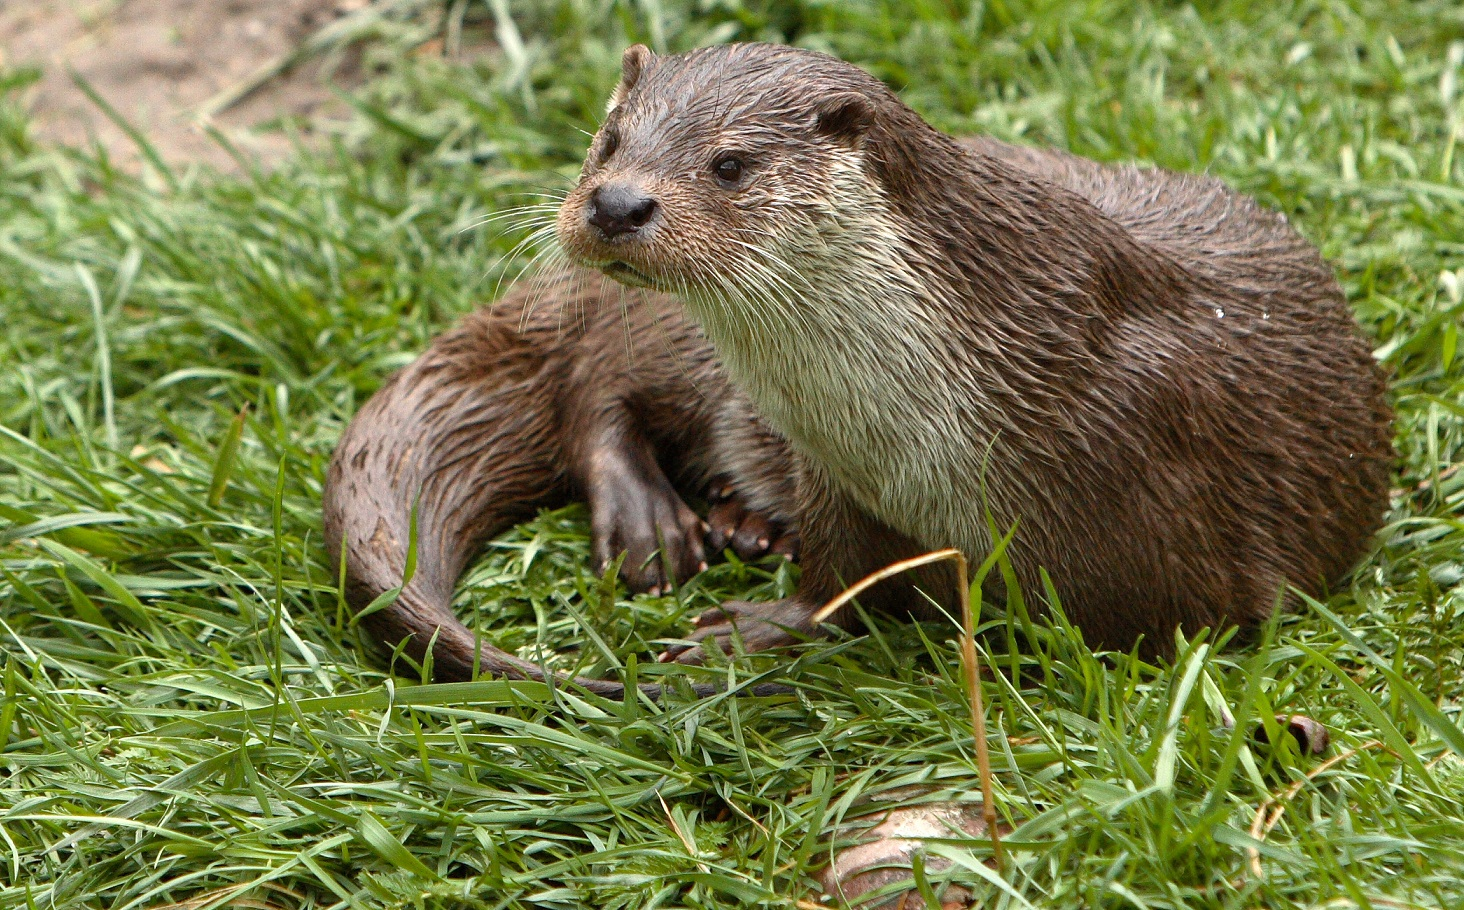
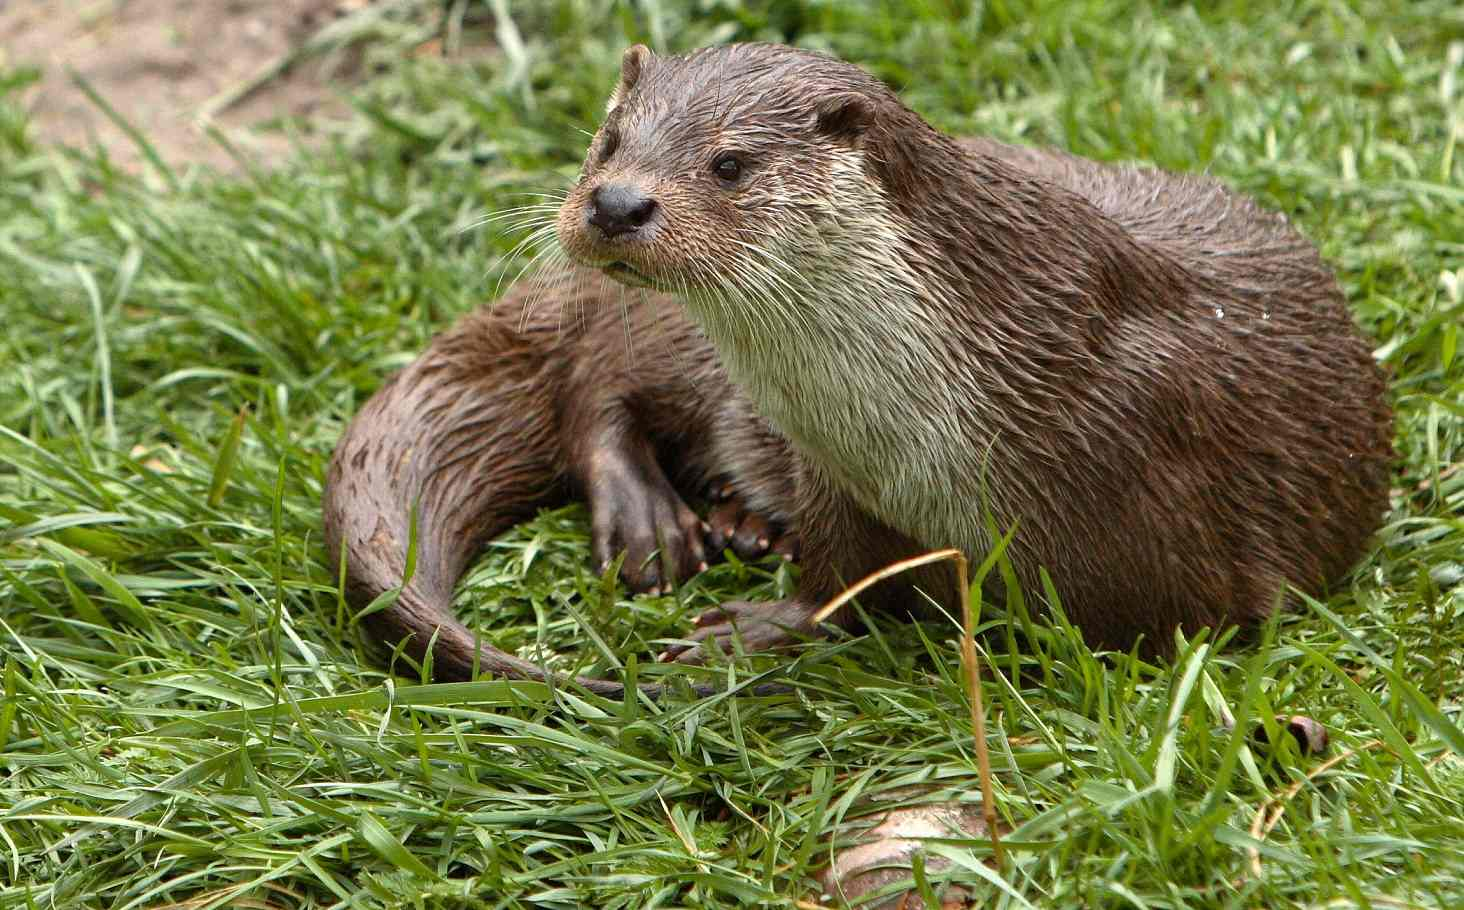
reducing pictures weight
with the "save for web" gimp's extension, the pictures are now waaaaay
lighter.

diff --git a/movies.html b/movies.html
@@ -57,7 +57,7 @@
 				    		<div class="modal-header">
 						        <button type="button" class="close" data-dismiss="modal">x</button>
 						        <h3 class="modal-title">Inscrivez vous en 30 secondes</h3>
-						        <img src="pictures/hourglass.png" alt="hourglass-logo">
+						        <img src="pictures/hourglass.jpg" alt="hourglass-logo">
 						        <p>S'inscrire n'est pas obligatoire mais vous nous aideriez beaucoup à estimer le nombre de personnes présentes
 						        et donc votre bon accueil.</p>
 				    		</div>
@@ -139,7 +139,7 @@
 							<h4>Le lundi 5 août</h4>
 							<!--first movie-->
 							<div class="col-xs-offset-1 col-xs-10 col-sm-offset-1 col-sm-5">
-								<img src="pictures/concert.png" alt="poster-concert" class="poster-prog-img hidden-xs">
+								<img src="pictures/concert.jpg" alt="poster-concert" class="poster-prog-img hidden-xs">
 								<h5>Le Concert - 18h</h5>
 								<div class="btn-group"> 
 									<a data-toggle="modal" href="#movie-1" class="btn btn-primary">Casting et synopsis</a>
@@ -149,7 +149,7 @@
 							    				<div class="modal-header">
 							        				<button type="button" class="close" data-dismiss="modal">x</button>
 							        				<h3 class="modal-title">Le Concert</h3>
-							        				<img src="pictures/ticket.png" alt="ticket-picture" class="ticket-logo">
+							        				<img src="pictures/ticket.jpg" alt="ticket-picture" class="ticket-logo">
 							        				<p>Sortie en 2009</p>
 												   	<p><strong>Réalisation:</strong><br>Radu Mihaileanu</p>
 												   	<p><strong>Acteurs et actrices :</strong><br>Aleksei Guskov, Mélanie Laurent, Dimitry Nazarov, François Berléand, 
@@ -166,7 +166,7 @@
 							</div>
 							<!--second movie-->
 							<div class="col-xs-offset-1 col-xs-10 col-sm-offset-0 col-sm-4">
-								<img src="pictures/polisse.png" alt="poster-polisse" class="poster-prog-img hidden-xs">
+								<img src="pictures/polisse.jpg" alt="poster-polisse" class="poster-prog-img hidden-xs">
 								<h5>Polisse - 21h</h5>
 								<div class="btn-group"> 
 									<a data-toggle="modal" href="#movie-2" class="btn btn-primary">Casting et synopsis</a>
@@ -176,7 +176,7 @@
 							    				<div class="modal-header">
 							        				<button type="button" class="close" data-dismiss="modal">x</button>
 							        				<h3 class="modal-title">Polisse</h3>
-							        				<img src="pictures/ticket.png" alt="ticket-picture" class="ticket-logo">
+							        				<img src="pictures/ticket.jpg" alt="ticket-picture" class="ticket-logo">
 							        				<p>Sortie en 2011</p>
 												   	<p><strong>Réalisation:</strong><br>Maïwenn</p>
 												   	<p><strong>Acteurs et actrices :</strong><br>Acteurs et actrices :<br>Karin Viard, JoeyStarr, Marina Foïs, Nicolas Duvauchelle, Maïwenn, Karole Rocher, Emmanuelle Bercot, Frédéric Pierrot</p>
@@ -198,7 +198,7 @@
 							<h4>Le mardi 6 août</h4>
 							<!--first movie-->
 							<div class="col-xs-offset-1 col-xs-10 col-sm-offset-1 col-sm-5">
-								<img src="pictures/teteFriche.png" alt="teteFriche-concert" class="poster-prog-img hidden-xs">
+								<img src="pictures/teteFriche.jpg" alt="teteFriche-concert" class="poster-prog-img hidden-xs">
 								<h5>La tête en friche - 18h</h5>
 								<div class="btn-group"> 
 									<a data-toggle="modal" href="#movie-3" class="btn btn-primary">Casting et synopsis</a>
@@ -208,7 +208,7 @@
 							    				<div class="modal-header">
 							        				<button type="button" class="close" data-dismiss="modal">x</button>
 							        				<h3 class="modal-title">La tête en friche</h3>
-							        				<img src="pictures/ticket.png" alt="ticket-picture" class="ticket-logo">
+							        				<img src="pictures/ticket.jpg" alt="ticket-picture" class="ticket-logo">
 							        				<p>Sortie en 2009</p>
 												   	<p><strong>Réalisation:</strong><br>Radu Mihaileanu</p>
 												   	<p><strong>Acteurs et actrices :</strong><br>Aleksei Guskov, Mélanie Laurent, Dimitry Nazarov, François Berléand, 
@@ -225,7 +225,7 @@
 							</div>
 							<!--second movie-->
 							<div class="col-xs-offset-1 col-xs-10 col-sm-offset-0 col-sm-4">
-								<img src="pictures/affranchis.png" alt="poster-affranchis" class="poster-prog-img hidden-xs">
+								<img src="pictures/affranchis.jpg" alt="poster-affranchis" class="poster-prog-img hidden-xs">
 								<h5>Les Affranchis - 21h</h5>
 								<div class="btn-group"> 
 									<a data-toggle="modal" href="#movie-4" class="btn btn-primary">Casting et synopsis</a>
@@ -235,7 +235,7 @@
 							    				<div class="modal-header">
 							        				<button type="button" class="close" data-dismiss="modal">x</button>
 							        				<h3 class="modal-title">Les Affranchis</h3>
-							        				<img src="pictures/ticket.png" alt="ticket-picture" class="ticket-logo">
+							        				<img src="pictures/ticket.jpg" alt="ticket-picture" class="ticket-logo">
 							        				<p>Sortie en 2011</p>
 												   	<p><strong>Réalisation:</strong><br>Maïwenn</p>
 												   	<p><strong>Acteurs et actrices :</strong><br>Acteurs et actrices :<br>Karin Viard, JoeyStarr, Marina Foïs, Nicolas Duvauchelle, Maïwenn, Karole Rocher, Emmanuelle Bercot, Frédéric Pierrot</p>
@@ -257,7 +257,7 @@
 							<h4>Le mercredi 7 août</h4>
 							<!--first movie-->
 							<div class="col-xs-offset-1 col-xs-10 col-sm-offset-1 col-sm-5">
-								<img src="pictures/coeurHomme.png" alt="poster-coeurHomme" class="poster-prog-img hidden-xs">
+								<img src="pictures/coeurHomme.jpg" alt="poster-coeurHomme" class="poster-prog-img hidden-xs">
 								<h5>Le Coeur des Hommes - 18h</h5>
 								<div class="btn-group"> 
 									<a data-toggle="modal" href="#movie-5" class="btn btn-primary">Casting et synopsis</a>
@@ -267,7 +267,7 @@
 							    				<div class="modal-header">
 							        				<button type="button" class="close" data-dismiss="modal">x</button>
 							        				<h3 class="modal-title">Le Coeur des Hommes</h3>
-							        				<img src="pictures/ticket.png" alt="ticket-picture" class="ticket-logo">
+							        				<img src="pictures/ticket.jpg" alt="ticket-picture" class="ticket-logo">
 							        				<p>Sortie en 2009</p>
 												   	<p><strong>Réalisation:</strong><br>Radu Mihaileanu</p>
 												   	<p><strong>Acteurs et actrices :</strong><br>Aleksei Guskov, Mélanie Laurent, Dimitry Nazarov, François Berléand, 
@@ -284,7 +284,7 @@
 							</div>
 							<!--second movie-->
 							<div class="col-xs-offset-1 col-xs-10 col-sm-offset-0 col-sm-4">
-								<img src="pictures/persepolis.png" alt="poster-persepolis" class="poster-prog-img hidden-xs">
+								<img src="pictures/persepolis.jpg" alt="poster-persepolis" class="poster-prog-img hidden-xs">
 								<h5>Persepolis - 21h</h5>
 								<div class="btn-group"> 
 									<a data-toggle="modal" href="#movie-6" class="btn btn-primary">Casting et synopsis</a>
@@ -294,7 +294,7 @@
 							    				<div class="modal-header">
 							        				<button type="button" class="close" data-dismiss="modal">x</button>
 							        				<h3 class="modal-title">Persepolis</h3>
-							        				<img src="pictures/ticket.png" alt="ticket-picture" class="ticket-logo">
+							        				<img src="pictures/ticket.jpg" alt="ticket-picture" class="ticket-logo">
 							        				<p>Sortie en 2011</p>
 												   	<p><strong>Réalisation:</strong><br>Maïwenn</p>
 												   	<p><strong>Acteurs et actrices :</strong><br>Acteurs et actrices :<br>Karin Viard, JoeyStarr, Marina Foïs, Nicolas Duvauchelle, Maïwenn, Karole Rocher, Emmanuelle Bercot, Frédéric Pierrot</p>
@@ -316,7 +316,7 @@
 							<h4>Le jeudi 8 août</h4>
 							<!--first movie-->
 							<div class="col-xs-offset-1 col-xs-10 col-sm-offset-1 col-sm-5">
-								<img src="pictures/guerreDeclaree.png" alt="poster-guerreDeclaree" class="poster-prog-img hidden-xs">
+								<img src="pictures/guerreDeclaree.jpg" alt="poster-guerreDeclaree" class="poster-prog-img hidden-xs">
 								<h5>La guerre est déclarée - 18h</h5>
 								<div class="btn-group"> 
 									<a data-toggle="modal" href="#movie-7" class="btn btn-primary">Casting et synopsis</a>
@@ -326,7 +326,7 @@
 							    				<div class="modal-header">
 							        				<button type="button" class="close" data-dismiss="modal">x</button>
 							        				<h3 class="modal-title">La guerre est déclarée</h3>
-							        				<img src="pictures/ticket.png" alt="ticket-picture" class="ticket-logo">
+							        				<img src="pictures/ticket.jpg" alt="ticket-picture" class="ticket-logo">
 							        				<p>Sortie en 2009</p>
 												   	<p><strong>Réalisation:</strong><br>Radu Mihaileanu</p>
 												   	<p><strong>Acteurs et actrices :</strong><br>Aleksei Guskov, Mélanie Laurent, Dimitry Nazarov, François Berléand, 
@@ -343,7 +343,7 @@
 							</div>
 							<!--second movie-->
 							<div class="col-xs-offset-1 col-xs-10 col-sm-offset-0 col-sm-4">
-								<img src="pictures/granTorino.png" alt="poster-granTorino" class="poster-prog-img hidden-xs">
+								<img src="pictures/granTorino.jpg" alt="poster-granTorino" class="poster-prog-img hidden-xs">
 								<h5>Gran Torino - 21h</h5>
 								<div class="btn-group"> 
 									<a data-toggle="modal" href="#movie-8" class="btn btn-primary">Casting et synopsis</a>
@@ -353,7 +353,7 @@
 							    				<div class="modal-header">
 							        				<button type="button" class="close" data-dismiss="modal">x</button>
 							        				<h3 class="modal-title">Gran Torino</h3>
-							        				<img src="pictures/ticket.png" alt="ticket-picture" class="ticket-logo">
+							        				<img src="pictures/ticket.jpg" alt="ticket-picture" class="ticket-logo">
 							        				<p>Sortie en 2011</p>
 												   	<p><strong>Réalisation:</strong><br>Maïwenn</p>
 												   	<p><strong>Acteurs et actrices :</strong><br>Acteurs et actrices :<br>Karin Viard, JoeyStarr, Marina Foïs, Nicolas Duvauchelle, Maïwenn, Karole Rocher, Emmanuelle Bercot, Frédéric Pierrot</p>

diff --git a/index.html b/index.html
@@ -47,22 +47,22 @@
 					<h3>Venez découvrir le Festival</h3>
 					<div class="row columns">
 						<div class="col-md-offset-2 col-md-2 col-xs-12 column">
-							<img src="pictures/parc.png" alt="parc-picture" class="img-circle">
+							<img src="pictures/parc.jpg" alt="parc-picture" class="img-circle">
 							<h4>Nature</h4>
 							<p>Le parc de Procé offre un écrin de verdure unique qui sublime les films et rafraichit ses visiteurs</p>
 						</div>
 						<div class="col-md-2 col-xs-12 column">
-							<img src="pictures/projector.png" alt="projector-picture" class="img-circle">
+							<img src="pictures/projector.jpg" alt="projector-picture" class="img-circle">
 							<h4>Cinéma</h4>
 							<p>Découvrez ou redécouvrez de grands films d'auteurs, classique du cinéma ou non</p>
 						</div>
 						<div class="col-md-2 col-xs-12 column">
-							<img src="pictures/food.png" alt="food-picture" class="img-circle">
+							<img src="pictures/food.jpg" alt="food-picture" class="img-circle">
 							<h4>Gastronomie</h4>
 							<p>Venez déguster les plats écologiques et responsables proposés sur place par Green Tree Food</p>
 						</div>
 						<div class="col-md-2 col-xs-12 column">
-							<img src="pictures/note.png" alt="note-picture" class="img-circle">
+							<img src="pictures/note.jpg" alt="note-picture" class="img-circle">
 							<h4>Débat</h4>
 							<p>Vous avez aimé le film ? Pas du tout ? Parlez en avec votre voisin !</p>
 						</div>
@@ -75,17 +75,17 @@
 				<!-- Three pictures grid appears on md and larger only-->
 				<div class="col-md-12 four-views-section text-center hidden-sm hidden-xs">
 					<div>
-						<a href="#"><img src="pictures/polisse.png" class="picture-poster" alt="Polisse-poster"></a>
+						<a href="#"><img src="pictures/polisse.jpg" class="picture-poster" alt="Polisse-poster"></a>
 						<h4>Polisse</h4>
 						<p class="poster-description">Film dramatique français écrit et réalisé par Maïwenn, sorti en 2011</p>
 					</div>
 					<div>
 						<h4>Les Affranchis</h4>
 						<p class="poster-description"> Film de gangsters américain réalisé par Martin Scorsese, sorti en 1990</p>
-						<a href="#"><img src="pictures/affranchis.png" class="picture-poster" alt="affranchis-poster"></a>
+						<a href="#"><img src="pictures/affranchis.jpg" class="picture-poster" alt="affranchis-poster"></a>
 					</div>
 					<div>
-						<a href="#"><img src="pictures/granTorino.png" class="picture-poster" alt="granTorino-poster"></a>
+						<a href="#"><img src="pictures/granTorino.jpg" class="picture-poster" alt="granTorino-poster"></a>
 						<h4>Gran Torino</h4>
 						<p class="poster-description">Film américain réalisé par Clint Eastwood et sorti en 2008</p>
 					</div>
@@ -96,15 +96,15 @@
 					  	<!-- Wrapper for slides -->
 					  	<div class="carousel-inner">
 						    <div class="item active">
-						      <a href="#"><img src="pictures/polisse.png" alt="Polisse-poster" class="carousel-picture"></a>
+						      <a href="#"><img src="pictures/polisse.jpg" alt="Polisse-poster" class="carousel-picture"></a>
 						    </div>
 
 						    <div class="item">
-						      <a href="#"><img src="pictures/affranchis.png" alt="affranchis-poster" class="carousel-picture"></a>
+						      <a href="#"><img src="pictures/affranchis.jpg" alt="affranchis-poster" class="carousel-picture"></a>
 						    </div>
 
 						    <div class="item">
-						      <a href="#"><img src="pictures/granTorino.png" alt="granTorino-poster" class="carousel-picture"></a>
+						      <a href="#"><img src="pictures/granTorino.jpg" alt="granTorino-poster" class="carousel-picture"></a>
 						    </div>
 					  	</div>
 					  	<!-- Left and right controls -->
@@ -126,25 +126,25 @@
 					<h4>Les dernières nouvelles de l'organisation et de la programmation !</h4>
 					<div class="row">
 						<div class="col-xs-12 col-sm-6 col-md-3 text-center">
-							<a href="#"><img src="pictures/remplissage.png" alt="loutre"></a>
+							<a href="#"><img src="pictures/remplissage.jpg" alt="loutre"></a>
 							<a href="#"><h5>Un sous titre qui en dit long</h5></a>
 							<p>Lorem ipsum dolor sit amet, consectetur adipiscing elit. Donec imperdiet,
 							sapien quis laoreet suscipit, sapien augue molestie velit, ut feugiat est metus in diam. Cras.</p>
 						</div>
 						<div class="col-xs-12 col-sm-6 col-md-3 text-center">
-							<a href="#"><img src="pictures/remplissage2.png" alt="loutre"></a>
+							<a href="#"><img src="pictures/remplissage2.jpg" alt="loutre"></a>
 							<a href="#"><h5>Un sous titre qui en dit long</h5></a>
 							<p>Lorem ipsum dolor sit amet, consectetur adipiscing elit. Donec imperdiet,
 							sapien quis laoreet suscipit, sapien augue molestie velit, ut feugiat est metus in diam. Cras.</p>
 						</div>
 						<div class="col-xs-12 col-sm-6 col-md-3 text-center">
-							<a href="#"><img src="pictures/remplissage3.png" alt="loutre"></a>
+							<a href="#"><img src="pictures/remplissage3.jpg" alt="loutre"></a>
 							<a href="#"><h5>Un sous titre qui en dit long</h5></a>
 							<p>Lorem ipsum dolor sit amet, consectetur adipiscing elit. Donec imperdiet,
 							sapien quis laoreet suscipit, sapien augue molestie velit, ut feugiat est metus in diam. Cras.</p>
 						</div>
 						<div class="col-xs-12 col-sm-6 col-md-3 text-center">
-							<a href="#"><img src="pictures/remplissage4.png" alt="loutre"></a>
+							<a href="#"><img src="pictures/remplissage4.jpg" alt="loutre"></a>
 							<a href="#"><h5>Un sous titre qui en dit long</h5></a>
 							<p>Lorem ipsum dolor sit amet, consectetur adipiscing elit. Donec imperdiet,
 							sapien quis laoreet suscipit, sapien augue molestie velit, ut feugiat est metus in diam. Cras.</p>
@@ -176,22 +176,22 @@
 					<h3>Nos partenaires</h3>
 					<div class="row">
 						<div class="col-xs-6 col-md-2">
-							<a href="https://www.google.com/teapot"><img src="pictures/partner1.png" alt="cinema-logo"></a>
+							<a href="https://www.google.com/teapot"><img src="pictures/partner1.jpg" alt="cinema-logo"></a>
 						</div>
 						<div class="col-xs-6 col-md-2">
-							<a href="https://www.google.com/teapot"><img src="pictures/partner2.png" alt="tree-logo"></a>
+							<a href="https://www.google.com/teapot"><img src="pictures/partner2.jpg" alt="tree-logo"></a>
 						</div>
 						<div class="col-xs-6 col-md-2">
-							<a href="http://www.nantes.fr/home.html"><img src="pictures/partner3.png" alt="logo-nantes"></a>
+							<a href="http://www.nantes.fr/home.html"><img src="pictures/partner3.jpg" alt="logo-nantes"></a>
 						</div>
 						<div class="col-xs-6 col-md-2">
-							<a href="http://www.brasserie-du-bouffay.com/"><img src="pictures/partner4.png" alt="logo-bouffay"></a>
+							<a href="http://www.brasserie-du-bouffay.com/"><img src="pictures/partner4.jpg" alt="logo-bouffay"></a>
 						</div>
 						<div class="col-xs-6 col-md-2">
-							<a href="http://www.paysdelaloire.fr/"><img src="pictures/partner5.png" alt="logo-region"></a>
+							<a href="http://www.paysdelaloire.fr/"><img src="pictures/partner5.jpg" alt="logo-region"></a>
 						</div>
 						<div class="col-xs-6 col-md-2">
-							<a href="http://www.aperturescience.com/"><img src="pictures/partner6.png" alt="logo-aperture"></a>
+							<a href="http://www.aperturescience.com/"><img src="pictures/partner6.jpg" alt="logo-aperture"></a>
 						</div>
 					</div>
 				</div>

diff --git a/news.html b/news.html
@@ -43,28 +43,28 @@
 				<h3 class="text-center col-xs-12">Toutes les news</h3>
 				<div class="col-xs-offset-1 col-xs-10 col-sm-offset-2 col-sm-6 news-box">
 					<div class="news row">
-						<a href="article-type.html"><img src="pictures/remplissage.png" alt="loutre" class="col-xs-4"></a>
+						<a href="article-type.html"><img src="pictures/remplissage.jpg" alt="loutre" class="col-xs-4"></a>
 						<div class="col-xs-8">
 							<h4>Une Loutre !<br><span class="date">le 28/07/2017</span></h4>
 							<p>blaaaaaaaaaaaa blaaaaaaa blsfdjhqsdih fqskjhdfqkljdfkdlhf   qlksjdh qsdk fqlmksdh mqkfh qmlfdkgjqiergfu<br><a href="article-type.html">Lire plus</a></p>
 						</div>
 					</div>
 					<div class="news row">
-						<a href="#"><img src="pictures/remplissage2.png" alt="loutre" class="col-xs-4"></a>
+						<a href="#"><img src="pictures/remplissage2.jpg" alt="loutre" class="col-xs-4"></a>
 						<div class="col-xs-8">
 							<h4>Une Loutre !<br><span class="date">le 26/07/2017</span></h4>
 							<p>blaaaaaaaaaaaa blaaaaaaa blsfdjhqsdih fqskjhdfqkljdfkdlhf   qlksjdh qsdk fqlmksdh mqkfh qmlfdkgjqiergfu<br><a href="#">Lire plus</a></p>
 						</div>
 					</div>
 					<div class="news row">
-						<a href="#"><img src="pictures/remplissage3.png" alt="loutre" class="col-xs-4"></a>
+						<a href="#"><img src="pictures/remplissage3.jpg" alt="loutre" class="col-xs-4"></a>
 						<div class="col-xs-8">
 							<h4>Une Loutre !<br><span class="date">le 15/07/2017</span></h4>
 							<p>blaaaaaaaaaaaa blaaaaaaa blsfdjhqsdih fqskjhdfqkljdfkdlhf   qlksjdh qsdk fqlmksdh mqkfh qmlfdkgjqiergfu<br><a href="#">Lire plus</a></p>
 						</div>
 					</div>
 					<div class="news row">
-						<a href="#"><img src="pictures/remplissage4.png" alt="loutre" class="col-xs-4"></a>
+						<a href="#"><img src="pictures/remplissage4.jpg" alt="loutre" class="col-xs-4"></a>
 						<div class="col-xs-8">
 							<h4>Une Loutre !<br><span class="date">le 02/07/2017</span></h4>
 							<p>blaaaaaaaaaaaa blaaaaaaa blsfdjhqsdih fqskjhdfqkljdfkdlhf   qlksjdh qsdk fqlmksdh mqkfh qmlfdkgjqiergfu<br><a href="#">Lire plus</a></p>
@@ -74,15 +74,15 @@
 				<aside class="hidden-xs col-sm-2 text-center">
 					<h5>Prochains films</h5>
 					<div class="last-news">
-						<a href="movies.html"><img src="pictures/concert.png" alt="concert-poster" class="col-xs-12"></a>
+						<a href="movies.html"><img src="pictures/concert.jpg" alt="concert-poster" class="col-xs-12"></a>
 						<a href="movies.html">Le concert</a>
 					</div>
 					<div class="last-news">
-						<a href="movies.html"><img src="pictures/polisse.png" alt="polisse-poster" class="col-xs-12"></a>
+						<a href="movies.html"><img src="pictures/polisse.jpg" alt="polisse-poster" class="col-xs-12"></a>
 						<a href="movies.html">Polisse</a>
 					</div>
 					<div class="last-news">
-						<a href="movies.html#day2"><img src="pictures/teteFriche.png" alt="teteFriche-poster" class="col-xs-12"></a>
+						<a href="movies.html#day2"><img src="pictures/teteFriche.jpg" alt="teteFriche-poster" class="col-xs-12"></a>
 						<a href="movies.html#day2">Le tête en friche</a>
 					</div>
 				</aside>

diff --git a/festival.html b/festival.html
@@ -49,7 +49,7 @@
 					<p>Donec leo lacus, mattis sit amet vestibulum a, pretium sit amet nunc. Etiam mattis erat non fringilla rutrum. Nunc scelerisque imperdiet sagittis. Proin elit eros, luctus sed fermentum ac, cursus sed urna. Mauris fringilla ligula ornare urna eleifend, commodo tempus orci eleifend. Proin finibus magna ut lacus iaculis, non vehicula elit tempus. In id metus eget quam sagittis ultricies eget at nisi. Fusce et tortor vel ex convallis suscipit. Donec eget congue lorem. Nam a magna sem. Sed vel dapibus ligula. Morbi non dapibus risus, a volutpat enim.</p>
 
 					<h3 class="text-center">Jennifer Viala</h3>
-					<img src="pictures/jennifer.png" alt="jennifer-viala" class="center-block owner-picture">
+					<img src="pictures/jennifer.jpg" alt="jennifer-viala" class="center-block owner-picture">
 					<p>Lorem ipsum dolor sit amet, consectetur adipiscing elit. Quisque accumsan tortor mi, et bibendum augue tincidunt id. Morbi ullamcorper dui id lacinia venenatis. Pellentesque quis massa quis nunc consectetur tempor. In hac habitasse platea dictumst. Ut in dictum nisl. Curabitur vel libero consectetur, convallis nibh id, vestibulum magna. Fusce at scelerisque ipsum, eu mollis ligula.</p>
 					<p>Nam porttitor lectus eu condimentum lacinia. Vestibulum eu ultricies eros. Vestibulum ornare rutrum mattis. Proin fermentum a augue eget ultricies. Vestibulum eget pulvinar neque. Pellentesque arcu neque, rhoncus rhoncus fringilla consequat, luctus eu purus. Cras varius nibh ut lacus feugiat, et placerat odio rhoncus. Aliquam placerat odio eu neque facilisis bibendum. Mauris sed est sodales, egestas urna a, fermentum elit. Duis tincidunt metus vitae tincidunt dapibus. In eget facilisis arcu. Nullam sed ultrices enim, at blandit eros. Phasellus sed nulla id urna convallis sagittis eget eu nisl. Aliquam tempus quam id erat iaculis commodo. Vivamus molestie aliquam diam nec porttitor.</p>
 					

diff --git a/less/pages/movies.less b/less/pages/movies.less
@@ -1,7 +1,7 @@
 /*----- Programme PAGE ----- */
 .prog-page {
 	header {
-		background-image: url(../pictures/projector-background.jpeg);
+		background-image: url(../pictures/projector-background.jpg);
 	}
 	/*everything between header and footer for "movies" page*/
 	.prog-bloc {

diff --git a/less/pages/news.less b/less/pages/news.less
@@ -1,7 +1,7 @@
 /*----- NEWS PAGE ----- */
 .news-page {
 	header {
-		background-image: url(../pictures/tablet.jpeg);
+		background-image: url(../pictures/tablet.jpg);
 	}
 	.news-box {
 		border-right: 2px solid @light-grey;
